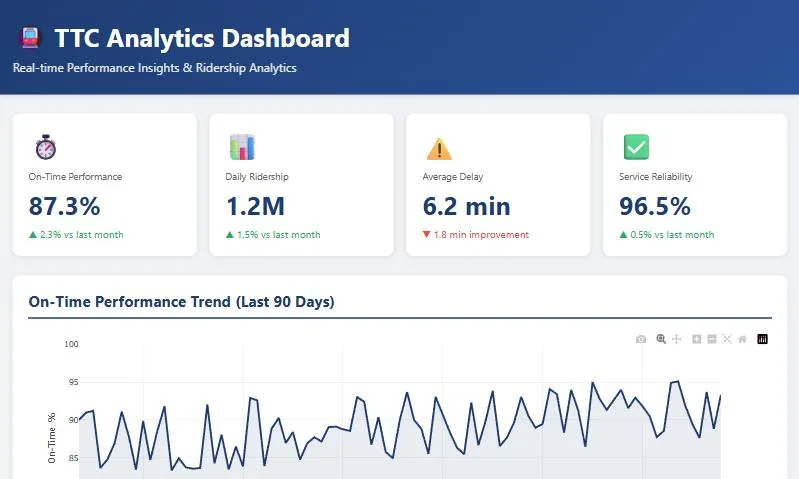
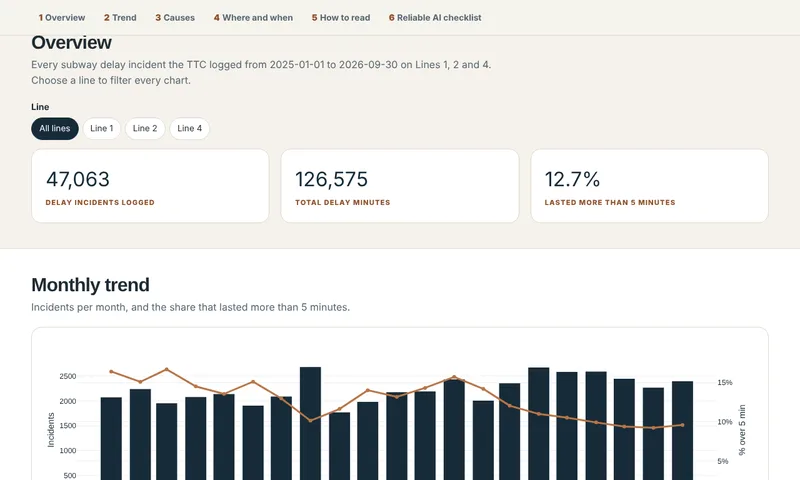
Update project descriptions and screenshots to match the rebuilt repos

diff --git a/projects.html b/projects.html
@@ -380,51 +380,51 @@
           <article class="card pcard">
             <p class="label">Live demo</p>
             <h3>TTC Predict</h3>
-            <p>Predicts Toronto subway delays from public data, with route options and a station map. Served with FastAPI.</p>
-            <p class="tech">Python · FastAPI · scikit-learn</p>
+            <p>Estimates whether a reported TTC subway delay will last over 5 minutes. Trained on 2025 Toronto Open Data and tested on 2026, with its evidence, calibration and weak spots shown.</p>
+            <p class="tech">Python · scikit-learn · JavaScript</p>
             <div class="project-links"><a class="link" href="https://danieldemoz.github.io/ttc-predict/" target="_blank" rel="noopener">Live demo ↗</a> &nbsp;·&nbsp; <a class="link" href="https://github.com/DanielDemoz/ttc-predict" target="_blank" rel="noopener">Code ↗</a></div>
           </article>
           <article class="card pcard">
             <p class="label">Live demo</p>
             <h3>TTC Line 1 Optimization</h3>
-            <p>Risk-aware scheduling for TTC Line 1, using Prophet forecasts and mixed-integer optimization (PuLP).</p>
-            <p class="tech">Prophet · PuLP · Jupyter</p>
+            <p>Linear programming that compares Line 1 train schedules against hourly delay risk, with the cost saved, the modelled delay and the assumptions behind each number.</p>
+            <p class="tech">Python · PuLP · Jupyter</p>
             <div class="project-links"><a class="link" href="https://danieldemoz.github.io/TTC-Line1-Optimization/" target="_blank" rel="noopener">Live demo ↗</a> &nbsp;·&nbsp; <a class="link" href="https://github.com/DanielDemoz/TTC-Line1-Optimization" target="_blank" rel="noopener">Code ↗</a></div>
           </article>
           <article class="card pcard">
             <p class="label">Live demo</p>
             <h3>Toronto Transit Sentiment</h3>
-            <p>Sentiment analysis of public TTC rider feedback using BERT and VADER.</p>
-            <p class="tech">Python · BERT · VADER</p>
+            <p>A small, honest test of sentiment tools on labelled TTC rider messages. Every error is shown, and a ready-made lexicon beats a trained model on this little data.</p>
+            <p class="tech">Python · VADER · scikit-learn</p>
             <div class="project-links"><a class="link" href="https://danieldemoz.github.io/toronto-transit-sentiment-nlp/" target="_blank" rel="noopener">Live demo ↗</a> &nbsp;·&nbsp; <a class="link" href="https://github.com/DanielDemoz/toronto-transit-sentiment-nlp" target="_blank" rel="noopener">Code ↗</a></div>
           </article>
           <article class="card pcard">
             <p class="label">Live demo</p>
-            <h3>LoopLens Transit Dashboard</h3>
-            <p>An interactive dashboard of TTC on-time performance, ridership, and delay trends.</p>
-            <p class="tech">Python · Dash · Plotly</p>
+            <h3>TTC Delay Dashboard</h3>
+            <p>Where, when and why TTC subway delays happen, built from 47,063 real delay incidents from January 2025 to September 2026.</p>
+            <p class="tech">Python · pandas · Plotly</p>
             <div class="project-links"><a class="link" href="https://danieldemoz.github.io/interactive-transit-dashboard/" target="_blank" rel="noopener">Live demo ↗</a> &nbsp;·&nbsp; <a class="link" href="https://github.com/DanielDemoz/interactive-transit-dashboard" target="_blank" rel="noopener">Code ↗</a></div>
           </article>
           <article class="card pcard">
             <p class="label">Live demo</p>
             <h3>Diabetes Risk Prediction</h3>
-            <p>A diabetes risk model that combines the US BRFSS and Canadian CCHS health surveys.</p>
-            <p class="tech">Jupyter · Plotly</p>
+            <p>A calibrated diabetes model on US survey data, with a fairness check by income, education, age and sex, and a re-check of a US and Canada comparison.</p>
+            <p class="tech">Python · scikit-learn · JavaScript</p>
             <div class="project-links"><a class="link" href="https://danieldemoz.github.io/Diabetes-Risk-Prediction-Using-BRFSS-US-and-CCHS-Canada/" target="_blank" rel="noopener">Live demo ↗</a> &nbsp;·&nbsp; <a class="link" href="https://github.com/DanielDemoz/Diabetes-Risk-Prediction-Using-BRFSS-US-and-CCHS-Canada" target="_blank" rel="noopener">Code ↗</a></div>
           </article>
           <article class="card pcard">
             <p class="label">Live demo</p>
             <h3>Customer Lifetime Value and Segmentation</h3>
-            <p>Predicts customer lifetime value, groups customers into segments, and includes an ROI calculator.</p>
-            <p class="tech">Jupyter · scikit-learn</p>
+            <p>A re-check of a CLV model that scored 0.9996. The score came from target leakage, so the demo replaces it with a transparent calculator and an ROI scenario.</p>
+            <p class="tech">Python · scikit-learn</p>
             <div class="project-links"><a class="link" href="https://danieldemoz.github.io/customer-segmentation-clv/" target="_blank" rel="noopener">Live demo ↗</a> &nbsp;·&nbsp; <a class="link" href="https://github.com/DanielDemoz/customer-segmentation-clv" target="_blank" rel="noopener">Code ↗</a></div>
           </article>
           <article class="card pcard">
-            <p class="label">Code and write-up</p>
+            <p class="label">Live demo</p>
             <h3>Customer Churn Analysis</h3>
-            <p>Predicts which customers are likely to leave and groups them into segments.</p>
+            <p>A Streamlit churn dashboard, with an honest note that the hosted version runs on generated demo data.</p>
             <p class="tech">Python · Streamlit</p>
-            <div class="project-links"><a class="link" href="https://github.com/DanielDemoz/ecommerce-churn-analysis" target="_blank" rel="noopener">Code ↗</a></div>
+            <div class="project-links"><a class="link" href="https://danieldemoz.github.io/ecommerce-churn-analysis/" target="_blank" rel="noopener">Live demo ↗</a> &nbsp;·&nbsp; <a class="link" href="https://github.com/DanielDemoz/ecommerce-churn-analysis" target="_blank" rel="noopener">Code ↗</a></div>
           </article>
         </div>
       </div>
@@ -434,17 +434,17 @@
         <div class="group-head"><h2>Applied AI and automation</h2><p>Working prototypes of agents and operational tools.</p></div>
         <div class="grid-3">
           <article class="card pcard">
-            <p class="label">Live demo</p>
+            <p class="label">Code and write-up</p>
             <h3>Ontario Insurance Quote Agent</h3>
-            <p>An AI agent that collects Ontario auto insurance quotes across several channels.</p>
-            <p class="tech">Python · Claude Agent SDK · Playwright</p>
+            <p>A browser agent that reaches real Ontario auto quote forms and stops at CAPTCHAs, declarations and payment. 22 routes tested live so far.</p>
+            <p class="tech">Python · Playwright · Claude API</p>
             <div class="project-links"><a class="link" href="https://danieldemoz.github.io/ontario-quote-agent/" target="_blank" rel="noopener">Live demo ↗</a> &nbsp;·&nbsp; <a class="link" href="https://github.com/DanielDemoz/ontario-quote-agent" target="_blank" rel="noopener">Code ↗</a></div>
           </article>
           <article class="card pcard">
             <p class="label">Live demo</p>
             <h3>Customer Engagement Analytics</h3>
-            <p>Customer segments, lifetime value, and churn prediction, with suggested engagement actions.</p>
-            <p class="tech">Streamlit · XGBoost</p>
+            <p>A segmentation, churn and CLV pipeline. A re-check found both models were scoring labels built from their own inputs.</p>
+            <p class="tech">Python · scikit-learn · XGBoost</p>
             <div class="project-links"><a class="link" href="https://danieldemoz.github.io/brukd-ai-customer-engagement/" target="_blank" rel="noopener">Live demo ↗</a> &nbsp;·&nbsp; <a class="link" href="https://github.com/DanielDemoz/brukd-ai-customer-engagement" target="_blank" rel="noopener">Code ↗</a></div>
           </article>
           <article class="card pcard">
@@ -457,8 +457,8 @@
           <article class="card pcard">
             <p class="label">Live demo</p>
             <h3>Clinic Booking Optimization</h3>
-            <p>Predicts appointment no-shows, sends reminders, and shows a clinic dashboard.</p>
-            <p class="tech">Python · Flask · scikit-learn</p>
+            <p>Clinic appointments and reminders with consent, encryption and an audit log. The no-show model is shown honestly as not ready until it has real data.</p>
+            <p class="tech">Python · Flask</p>
             <div class="project-links"><a class="link" href="https://danieldemoz.github.io/ai-booking-optimization/" target="_blank" rel="noopener">Live demo ↗</a> &nbsp;·&nbsp; <a class="link" href="https://github.com/DanielDemoz/ai-booking-optimization" target="_blank" rel="noopener">Code ↗</a></div>
           </article>
           <article class="card pcard">
@@ -485,7 +485,7 @@
           <article class="card pcard">
             <p class="label">Live demo</p>
             <h3>SQL Portfolio</h3>
-            <p>Four SQL case studies using window functions, CTEs, and joins.</p>
+            <p>A university schema and nine window-function examples, tested automatically on PostgreSQL 16.</p>
             <p class="tech">SQL · PostgreSQL</p>
             <div class="project-links"><a class="link" href="https://danieldemoz.github.io/sql-portfolio/" target="_blank" rel="noopener">Live demo ↗</a> &nbsp;·&nbsp; <a class="link" href="https://github.com/DanielDemoz/sql-portfolio" target="_blank" rel="noopener">Code ↗</a></div>
           </article>

diff --git a/index.html b/index.html
@@ -549,20 +549,20 @@
             </div>
           </article>
           <article class="card project-card">
-            <div class="shot"><div class="shot-bar"><i></i><i></i><i></i></div><img src="img/ttc.webp" alt="Screenshot of TTC Predict station map" loading="lazy" width="800" height="480"></div>
+            <div class="shot"><div class="shot-bar"><i></i><i></i><i></i></div><img src="img/ttc.webp" alt="Screenshot of the TTC Predict delay risk model" loading="lazy" width="800" height="480"></div>
             <div class="project-body">
               <p class="label">Applied machine learning</p>
               <h3>TTC Predict</h3>
-              <p>Predicts Toronto transit delays from public data, with route options and a station map.</p>
+              <p>Estimates whether a reported TTC subway delay will last over 5 minutes. Trained on 2025 Toronto Open Data and tested on 2026, with its evidence and weak spots shown.</p>
               <div class="project-links"><a class="link" href="https://danieldemoz.github.io/ttc-predict/" target="_blank" rel="noopener">Live demo ↗</a> &nbsp;·&nbsp; <a class="link" href="https://github.com/DanielDemoz/ttc-predict" target="_blank" rel="noopener">Code ↗</a></div>
             </div>
           </article>
           <article class="card project-card">
-            <div class="shot"><div class="shot-bar"><i></i><i></i><i></i></div><img src="img/looplens.webp" alt="Screenshot of the LoopLens transit dashboard" loading="lazy" width="799" height="479"></div>
+            <div class="shot"><div class="shot-bar"><i></i><i></i><i></i></div><img src="img/looplens.webp" alt="Screenshot of the TTC delay dashboard" loading="lazy" width="799" height="479"></div>
             <div class="project-body">
               <p class="label">Data visualization</p>
-              <h3>LoopLens</h3>
-              <p>An interactive dashboard for exploring Toronto transit performance and ridership data.</p>
+              <h3>TTC Delay Dashboard</h3>
+              <p>Where, when and why TTC subway delays happen, built from 47,063 real delay incidents.</p>
               <div class="project-links"><a class="link" href="https://danieldemoz.github.io/interactive-transit-dashboard/" target="_blank" rel="noopener">Live dashboard ↗</a> &nbsp;·&nbsp; <a class="link" href="https://github.com/DanielDemoz/interactive-transit-dashboard" target="_blank" rel="noopener">Code ↗</a></div>
             </div>
           </article>
